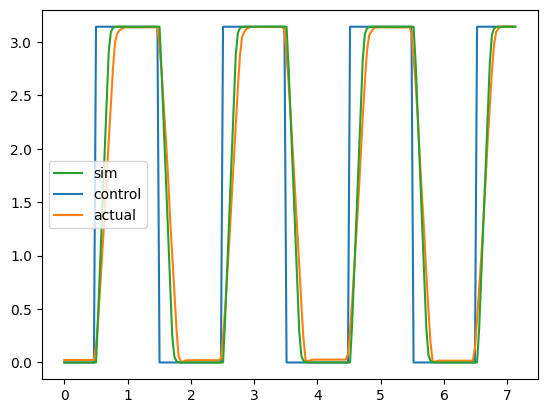
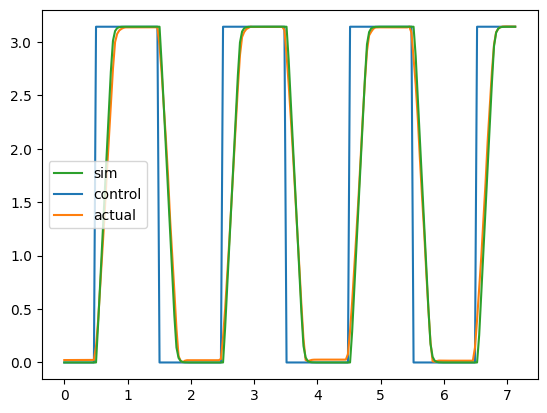
fixed bugs

diff --git a/content/work-blog/2023-12-07-servo-fitting/index.md b/content/work-blog/2023-12-07-servo-fitting/index.md
@@ -46,7 +46,11 @@ This is where there is some guesswork involved.  I pored over a number of datash
 
 Most of the performance data was taken at the SG90's nominal 6 volts.  This is important for obtaining the correctly scaled motor constants.  Manufacturers listed a range of stall torques, but many were around the 15 N-cm range (or .15 N-m).  One data sheet actually identified the gear ratio from the SG90's gear train as 55.5.  This means we can find the motor's stall torque, using $t_{motor} = \frac{t_{output}}{G}$.   Additionally, many manufacturers listed the "max" current to be around 550, 600, or 650 mA.  I took this to mean "stall current", and used 600 mA.  From here we can identify the motor's resistance with $V_{nom}/i_{stall}=R$.
 
-With stall torque and stall current we can also identify the motor's $k_t$, or torque constant, using $k_t=\frac{t_{stall}}{i_{stall}}$.  This number should be the same as the motor's back-emf constant, or $k_e$.  The motor's speed constant, $k_v$, should be a little different, and can be determined by finding $k_v=\frac{V_{nom}}{\omega_{NL}}$, where $\omega_{NL}$ is the motor's no-load speed.  In one data sheet I found the max speed of the servo to be .66 degrees per millisecond.  Using this we can calculate the motor's no-load speed to be $w_{NL} = G*.66 \frac{\text{deg}}{\text{ms}}*\frac{1000 \text{ms}}{\text{s}}*\frac{2\pi \text{rad}}{180\text{deg}}$.  These two numbers are different because $k_v$ also captures any internal mechanical losses experience by the motor, which can be lumped into a damping term $b = \frac{k_t i_{NL}}{\omega_{NL}}$, where $i_{NL}$ is the no-load current of the servo, which I assume is mostly consumed by the motor. The derivation for this is relatively straightforward, but I won't do it here. (I teach this in my class though).
+With stall torque and stall current we can also identify the motor's $k_t$, or torque constant, using $k_t=\frac{t_{stall}}{i_{stall}}$.  This number should be the same as the motor's back-emf constant, or $k_e$.  The motor's speed constant, $k_v$, should be a little different, and can be determined by finding $k_v=\frac{V_{nom}}{\omega_{NL}}$, where $\omega_{NL}$ is the motor's no-load speed.  In one data sheet I found the max speed of the servo to be .66 degrees per millisecond.  Using this we can calculate the motor's no-load speed to be
+
+$$w_{NL} = G \frac{.66\text{ deg}}{\text{ ms}}\frac{1000 \text{ms}}{\text{s}} \frac{\pi \text{ rad}}{180\text{ deg}}$$
+
+These two numbers are different because $k_v$ also captures any internal mechanical losses experience by the motor, which can be lumped into a damping term $b = \frac{k_t i_{NL}}{\omega_{NL}}$, where $i_{NL}$ is the no-load current of the servo, which I assume is mostly consumed by the motor. The derivation for this is relatively straightforward, but I won't do it here. (I teach this in my class though).
 
 ```python
 Vnom = 6
@@ -55,7 +59,7 @@ t_stall = 15/100/G
 i_stall = .6
 R = Vnom/i_stall
 i_nl = .2
-w_nl = .66*1000*2*math.pi/180*G
+w_nl = .66*1000*math.pi/180*G
 
 kt = t_stall/ i_stall
 kv= Vnom/w_nl
@@ -296,13 +300,13 @@ Likewise, changing the damping value mostly impacts the slope.
 
 ```python
 t,q1 = run_sim(kp = 20,b_act = b,render=False)
-t,q2 = run_sim(kp = 20,b_act = b*4,render=False)
-t,q3 = run_sim(kp = 20,b_act = b*8,render=False)
+t,q2 = run_sim(kp = 20,b_act = b*3,render=False)
+t,q3 = run_sim(kp = 20,b_act = b*6,render=False)
 
 a1 = plt.plot(t_data,q1)
 a2  = plt.plot(t_data,q2)
 a3 = plt.plot(t_data,q3)
-plt.legend(a1+a2+a3,['$b=7e^{-7}$','$b=2.8e^{-6}$','$b=5.6e^{-6}$'])
+plt.legend(a1+a2+a3,['$b={b:1.2e}$'.format(b=b),'$b={b:1.2e}$'.format(b=b*3),'$b={b:1.2e}$'.format(b=b*6)])
 plt.show()
 ```
 
@@ -329,20 +333,20 @@ def fun(vars):
     return error
 ```
 
-test it with an initial guess.  The error from my guess is ~3.  Try other values, see what you can get!
+test it with an initial guess.  The error from my guess is ~1.46.  Try other values, see what you can get!
 
 ```python
 ini = [15,b]
 fun(ini)
 ```
 
-    15 7.045839391367083e-07 3.056987801527067
+    15 1.4091678782734167e-06 1.458970807257259
 
 
 
 
 
-    3.056987801527067
+    1.458970807257259
 
 I found many of the algorithms had trouble converging.  I had to add bounds and play with the tolerances
 
@@ -350,78 +354,59 @@ I found many of the algorithms had trouble converging.  I had to add bounds and 
 results = so.minimize(fun,x0=ini,method='nelder-mead',bounds = ((1,100),(b*.1,b*10)),options={'xatol':1e-2,'fatol':1e-2})
 ```
 
-    15.0 7.045839391367083e-07 3.056987801527067
-    15.75 7.045839391367083e-07 3.06670813588028
-    15.0 7.398131360935438e-07 2.9404739731498157
-    14.25 7.398131360935438e-07 2.9298536694184323
-    13.5 7.574277345719615e-07 2.8600405808244913
-    13.5 7.92656931528797e-07 2.7463759970777715
-    12.75 8.366934277248414e-07 2.593750457808916
-    11.25 8.543080262032591e-07 2.5059962417100183
-    9.375 9.115554712581168e-07 2.275963664637785
-    8.625 9.908211644109967e-07 2.0303421974284066
-    6.1875 1.1075178793305145e-06 1.66180740742786
-    2.8125 1.1823799228637897e-06 2.5114162987347353
-    5.296875 1.0959582990790525e-06 1.64703193370412
-    2.109375 1.2919207071514502e-06 4.174226523854565
-    7.55859375 1.0066467802314502e-06 1.9390030951244106
-    3.92578125 1.1968293981781169e-06 1.751895476459638
-    4.833984375 1.1492837436914503e-06 1.601076332088305
-    3.943359375 1.137724163439988e-06 1.727991941513105
-    5.62646484375 1.115069450357883e-06 1.6300978751618864
-    5.16357421875 1.1683948949702805e-06 1.5738347623786484
-    5.096923828125 1.2046131929158945e-06 1.5559123452206873
-    4.304443359375 1.238827486249462e-06 1.6645142431616935
-    5.29595947265625 1.1460089593307777e-06 1.5904268510855262
-    5.55889892578125 1.2013384085552217e-06 1.5409569708666435
-    5.921356201171875 1.2273657409871073e-06 1.517676602839815
-    5.722320556640625 1.285969974572224e-06 1.498158784879606
-    5.9355010986328125 1.3559504821929473e-06 1.4897961133730686
-    6.7599334716796875 1.3787030302641602e-06 1.456506927006686
-    7.591438293457031 1.4657479489382932e-06 1.4708356353539753
-    6.774078369140625 1.5072877714700001e-06 1.5415420121093295
-    6.1345367431640625 1.2973462486078305e-06 1.4797645982293612
-    6.9589691162109375 1.3200987966790432e-06 1.4563547448075271
-    7.470703125 1.3021729539220907e-06 1.4631601071036955
-    7.5843658447265625 1.4014555783353728e-06 1.442953492992249
-    8.309280395507812 1.4535102431991435e-06 1.4507496332448222
-    7.7834014892578125 1.342851344750256e-06 1.445352533600562
-    8.408798217773438 1.4242081264065859e-06 1.4395027278849806
-    9.133712768554688 1.4762627912703568e-06 1.4548536977126143
-    8.209762573242188 1.4828123599917028e-06 1.4695621122264158
-    7.889991760253906 1.3778415985606177e-06 1.4385238163693321
-    8.714424133300781 1.4005941466318308e-06 1.4357575443635966
-    9.27945327758789 1.4001634307800596e-06 1.4363137679600868
-    8.19561767578125 1.3542276187858625e-06 1.442393128195361
-    8.35550308227539 1.406712999501405e-06 1.436929787245884
-    9.179935455322266 1.429465547572618e-06 1.4376633029932537
-    8.857449531555176 1.416559560319618e-06 1.4364004334684068
-    9.216370582580566 1.4104407074500437e-06 1.4358779782438922
-    9.073345184326172 1.3944752937622566e-06 1.4363675242609375
-    9.019371271133423 1.399996360401597e-06 1.4358667148258
-    8.517424821853638 1.390149799583384e-06 1.4362114994244233
-    9.041634142398834 1.4053679804833789e-06 1.435736236885207
-    8.736687004566193 1.4059657667136124e-06 1.4358262405141433
-    8.807358071208 1.4044734151356086e-06 1.4357227651764524
-    9.134568080306053 1.4092472489871564e-06 1.4358036121609983
-    8.8194601200521 1.402757422220662e-06 1.4357044786654434
-    8.585184048861265 1.4018628568728916e-06 1.4359265702008353
-    8.927521619014442 1.404491699580757e-06 1.4356962983941013
-    8.939623667858541 1.4027757066658106e-06 1.4357133214393083
-    8.906557268695906 1.4032001337832598e-06 1.435698441468169
-    9.014618767658249 1.4049344111433547e-06 1.43572382997415
-    8.868249781953637 1.4033016694513354e-06 1.4356956349412977
-    8.889214132272173 1.4045932352488326e-06 1.4356961008473808
-    8.829942295211367 1.403403205119411e-06 1.4357025627328512
-    8.903126788063673 1.4042195759654206e-06 1.4356944089182968
-    8.882162437745137 1.4029280101679233e-06 1.435697521743
-    8.887451208640414 1.4041769289786053e-06 1.435694662560168
-    8.92232821475045 1.4050948354926906e-06 1.4356974564505798
-    8.88176939015284 1.4037499609616742e-06 1.4356944176879656
-    8.8974449695761 1.4037926079484897e-06 1.4356944592060343
-    8.894946529342178 1.4038886882060186e-06 1.4356942470874023
-    8.916303927253011 1.404358303209765e-06 1.4356951286979118
-    8.890403024427883 1.403902046523697e-06 1.4356942565834152
+    15.0 1.4091678782734167e-06 1.458970807257259
+    15.75 1.4091678782734167e-06 1.462402830106116
+    15.0 1.4796262721870876e-06 1.4584701719279918
+    14.25 1.4796262721870876e-06 1.4562260034240078
+    13.5 1.514855469143923e-06 1.47061259159179
+    14.25 1.5500846661007584e-06 1.497222519793401
+    14.8125 1.4443970752302521e-06 1.4527888605867765
+    14.0625 1.444397075230252e-06 1.4498669152817727
+    13.59375 1.4267824767518336e-06 1.4488488064487703
+    14.15625 1.3915532797949982e-06 1.4613856397712497
+    14.2265625 1.4576080240890652e-06 1.4514145466279156
+    13.0078125 1.4399934256106468e-06 1.4457562844420435
+    12.10546875 1.4377916008008443e-06 1.4425322851954498
+    11.47265625 1.4069660534636127e-06 1.4433385005251913
+    9.984375 1.4179751775126234e-06 1.4371574039026114
+    8.1796875 1.4135715278930184e-06 1.4389209185056224
+    10.6171875 1.448800724849855e-06 1.4407095654715114
+    8.49609375 1.428984301561634e-06 1.440097088866246
+    7.86328125 1.3981587542244024e-06 1.4392612329540073
+    9.3515625 1.3871496301753918e-06 1.4383168033011722
+    11.47265625 1.4069660534636127e-06 1.4433385005251913
+    8.765625 1.400360579034205e-06 1.4357350774151936
+    9.3984375 1.4311861263714365e-06 1.4377010570413409
+    9.38671875 1.4201770023224252e-06 1.436407428467341
+    8.16796875 1.4025624038440065e-06 1.4374892764782607
+    9.5302734375 1.4141219840954691e-06 1.436303632570079
+    8.9091796875 1.394305560807249e-06 1.436095505993932
+    8.14453125 1.380544155745985e-06 1.4374162681013174
+    9.183837890625 1.405727527008098e-06 1.4358647297734326
+    9.040283203125 1.4117825452350538e-06 1.4358565596059232
+    8.6220703125 1.406415597261161e-06 1.4360398751122812
+    9.04339599609375 1.4058995445713637e-06 1.4357343695935185
+    8.76873779296875 1.3944775783705146e-06 1.435950048382034
+    8.972396850585938 1.4074563035189191e-06 1.4357257446340579
+    9.250167846679688 1.4129952690560778e-06 1.435958739427167
+    8.886760711669922 1.4035192515396731e-06 1.4356947416942232
+    8.81576156616211 1.4050760104872283e-06 1.4357281160792577
+    8.87267017364502 1.405281894008262e-06 1.435705915681683
+    8.787034034729004 1.4013448420290158e-06 1.435719053713688
+    8.833374738693237 1.4028727074014916e-06 1.435701021745444
+    8.84746527671814 1.4011100649329027e-06 1.4357165427256706
+    8.8663689494133 1.4042389367394223e-06 1.4356975400298684
+    8.919754922389984 1.404885480877604e-06 1.4356964495126388
+    8.940146684646606 1.4041657956778548e-06 1.4356993974365049
+    8.884813383221626 1.4042206514740304e-06 1.4356949351868828
+    8.851819172501564 1.4028544221360996e-06 1.4356982451206397
+    8.902770984917879 1.4043777161922279e-06 1.4356946455190553
+    8.904718313366175 1.4036763162578708e-06 1.4356953387057478
+    8.889789615757763 1.4040845676699906e-06 1.4356943668306599
+    8.90579988900572 1.4049430323225454e-06 1.4356968487674078
+    8.891520506003872 1.403875196735391e-06 1.4356942723742114
+    8.878539136843756 1.4035820482131538e-06 1.4356947155463449
+    8.896713022899348 1.4041787991974594e-06 1.435694270256341
 
 Check the final error.  Better than when I started!
 
@@ -432,13 +417,13 @@ print(results)
            message: Optimization terminated successfully.
            success: True
             status: 0
-               fun: 1.4356942470874023
-                 x: [ 8.895e+00  1.404e-06]
-               nit: 37
-              nfev: 72
-     final_simplex: (array([[ 8.895e+00,  1.404e-06],
-                           [ 8.890e+00,  1.404e-06],
-                           [ 8.903e+00,  1.404e-06]]), array([ 1.436e+00,  1.436e+00,  1.436e+00]))
+               fun: 1.435694270256341
+                 x: [ 8.897e+00  1.404e-06]
+               nit: 30
+              nfev: 53
+     final_simplex: (array([[ 8.897e+00,  1.404e-06],
+                           [ 8.892e+00,  1.404e-06],
+                           [ 8.890e+00,  1.404e-06]]), array([ 1.436e+00,  1.436e+00,  1.436e+00]))
 
 Now run my simulation with the results of the optimization
 
